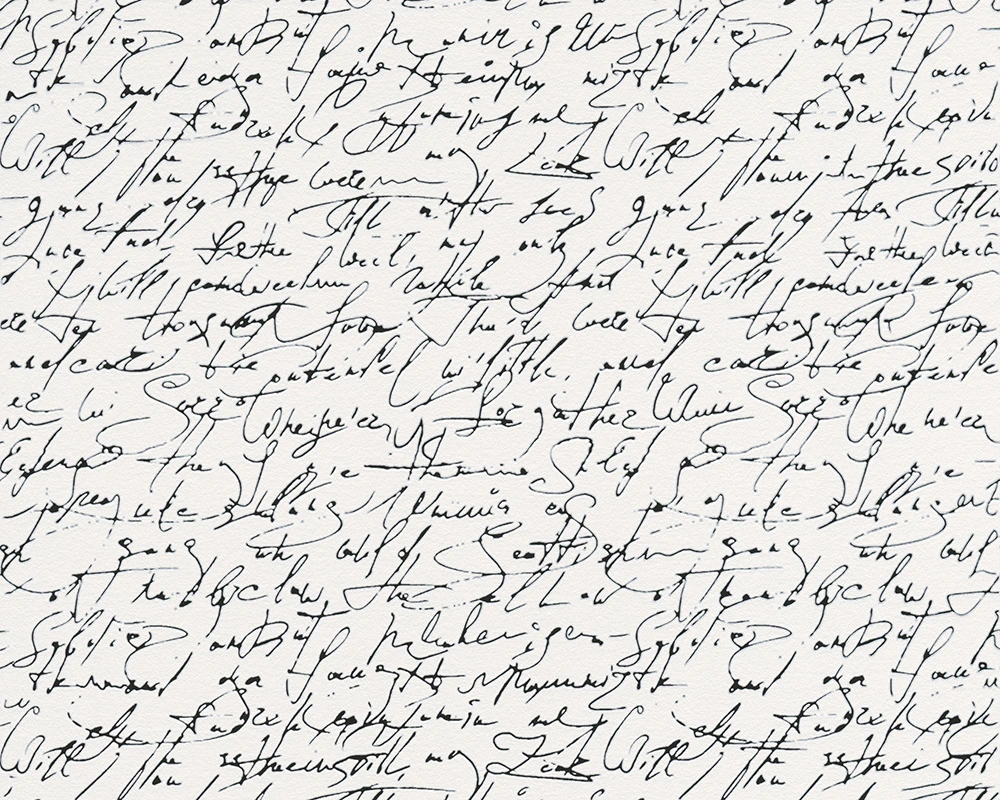
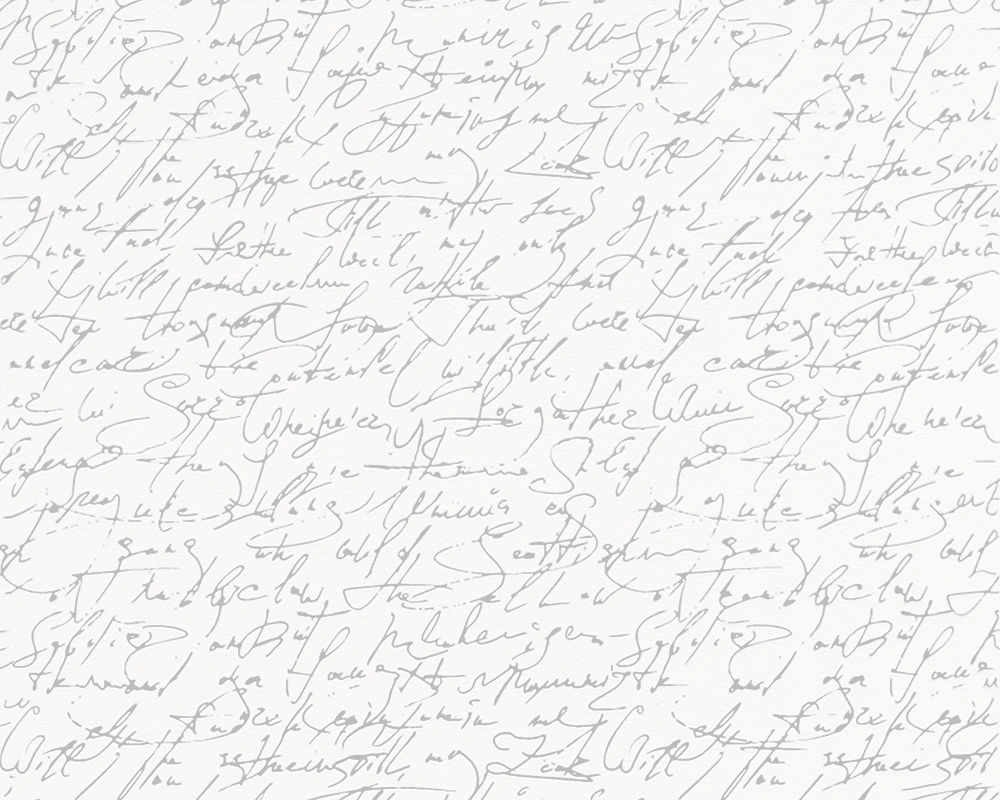
add styles

diff --git a/public_html/css/main.css b/public_html/css/main.css
@@ -1,0 +1,25 @@
+/* 
+    Created on : 31 окт. 2021 г., 23:28:09
+    Author     : ghost
+*/
+
+body{
+	font-family: sans-serif;
+	font-size: 12pt;
+	background: url(../tmpl/background.png);
+}
+
+#wrap{
+	max-width: 1280px;
+	margin: 0 auto;
+	background-color: white;
+	box-shadow: 2px 2px 5px black;
+}
+
+#head{
+	padding: 15px;
+}
+
+#content{
+	padding: 20px;
+}
